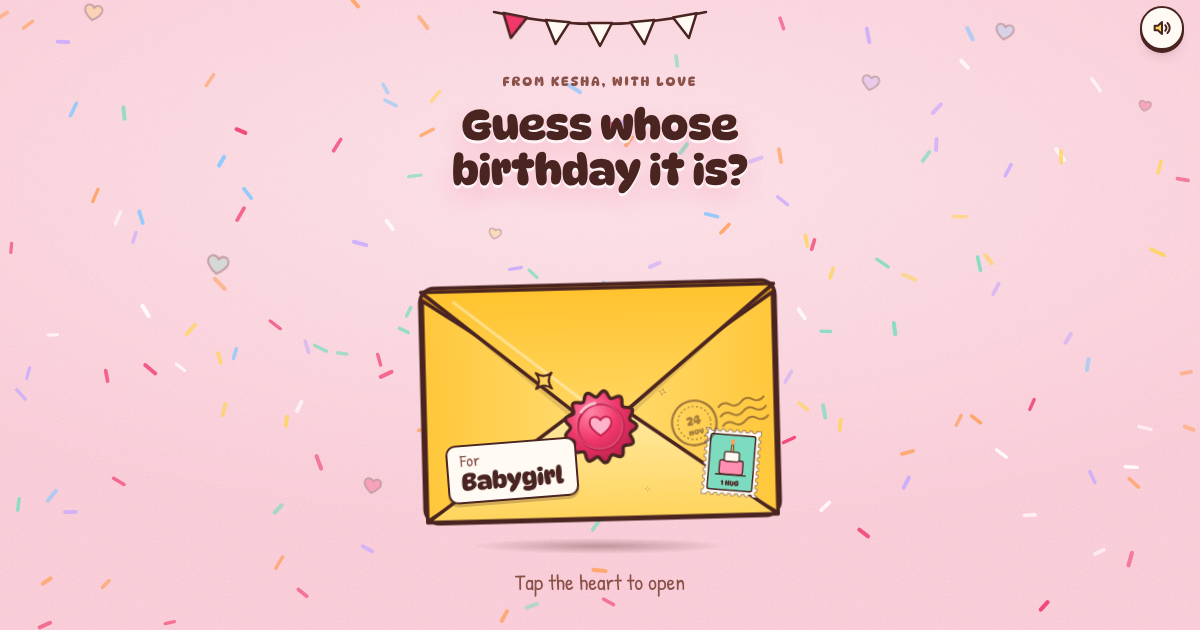
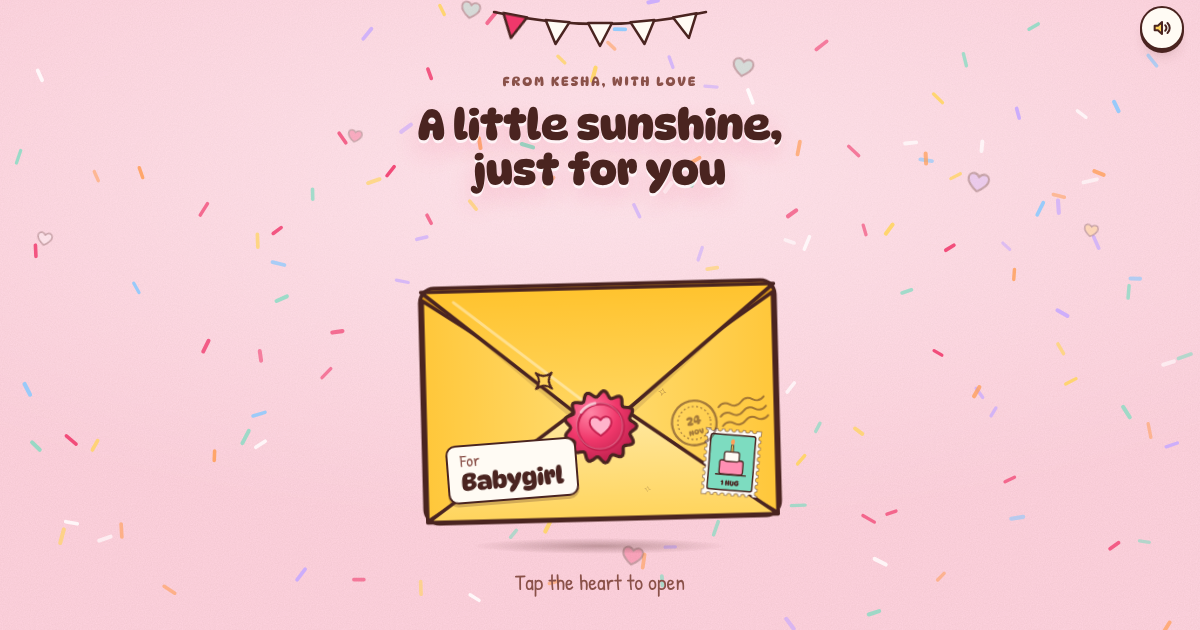
Change the opening title to "A little sunshine, just for you"
Claude-Session: https://claude.ai/code/session_01Byt7o5riMCrLC9qfj7bHPx

diff --git a/index.html b/index.html
@@ -801,7 +801,7 @@ const LABELS = ['Envelope', 'Birthday cake', 'Balloons', 'Gift', 'Letter'];
 const BUILD = [
   d => `<div class="stack env-stack">
     <p class="eyebrow">From ${esc(d.from)}, with love</p>
-    <h1 class="title" tabindex="-1">Guess whose birthday it is?</h1>
+    <h1 class="title" tabindex="-1">A little sunshine, just for you</h1>
     <div class="env-wrap"><button class="envelope" id="envelope" type="button" aria-label="Open the envelope for ${esc(d.name)}">
       <svg class="env-back" viewBox="0 0 300 200" aria-hidden="true"><defs><linearGradient id="envIn" x1="0" y1="0" x2="0" y2="1"><stop offset="0" stop-color="#D99516"/><stop offset=".55" stop-color="${C.butterDeep}"/></linearGradient></defs><rect x="2" y="2" width="296" height="196" rx="12" fill="url(#envIn)" ${K3}/></svg>
       <span class="env-letter" aria-hidden="true"><span class="peek">${sunflowerSvg('a')}</span></span>
